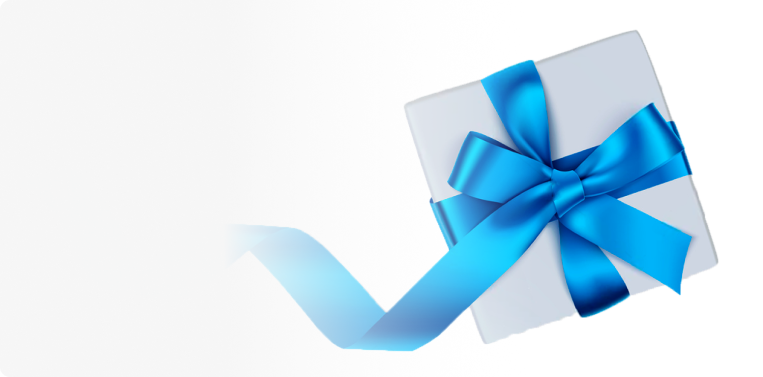
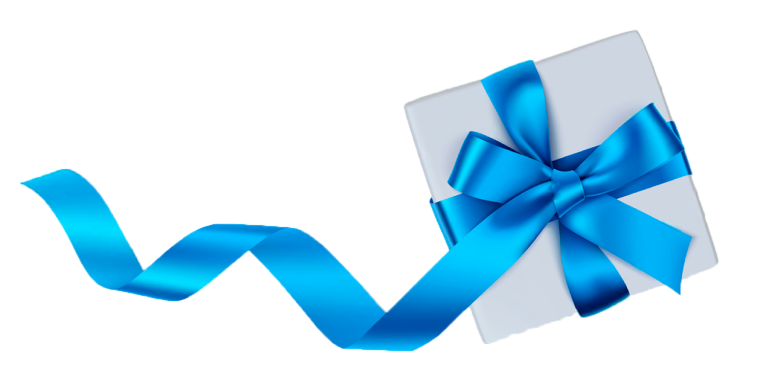
finished design of gift form (without adaptive)

Changed region(s): [[0.0301, 0.3501, 0.6632, 0.9337], [0.633, 0.1751, 0.6632, 0.321]]

diff --git a/src/assets/css/style.css b/src/assets/css/style.css
@@ -1,6 +1,7 @@
 body {
   font-family: 'Open sans', sans-serif, --apple-system;
-  overflow-x: hidden; }
+  overflow-x: hidden;
+  background-color: #F6F6F6; }
 
 .section__title {
   position: relative;
@@ -23,6 +24,17 @@ body {
 
 .text_accent {
   color: #A4DF59; }
+
+.text_underline {
+  position: relative; }
+  .text_underline:after {
+    position: absolute;
+    content: '';
+    width: 100%;
+    height: 2px;
+    left: 0;
+    bottom: -2px;
+    background-color: #A4DF59; }
 
 .line-break {
   display: block; }
@@ -228,6 +240,7 @@ body {
       position: absolute; }
 
 .prices {
+  margin-bottom: 80px;
   padding-bottom: 80px;
   position: relative; }
   .prices__title {
@@ -388,3 +401,58 @@ body {
         -webkit-border-radius: 1000px;
         -moz-border-radius: 1000px;
         border-radius: 1000px; }
+
+.gift {
+  padding-bottom: 80px; }
+  .gift__wrap {
+    position: relative; }
+  .gift__border {
+    position: absolute;
+    content: '';
+    height: 2px;
+    background-color: #A4DF59; }
+    .gift__border_top {
+      width: 150px;
+      top: -100px;
+      right: 0; }
+      .gift__border_top-right {
+        top: 0;
+        right: -99px;
+        width: 200px;
+        transform: rotate(90deg); }
+    .gift__border_bottom {
+      width: 150px;
+      bottom: -80px;
+      left: -51px; }
+      .gift__border_bottom-left {
+        bottom: 20px;
+        left: -150px;
+        width: 200px;
+        transform: rotate(-90deg); }
+  .gift__title {
+    margin-bottom: 35px;
+    font-size: 44px;
+    font-weight: 400; }
+    .gift__title .text_accent {
+      font-weight: 700; }
+  .gift__subtitle {
+    margin-bottom: 50px;
+    font-size: 16px; }
+  .gift__img-wrap {
+    position: absolute;
+    top: 50%;
+    right: 0;
+    transform: translateY(-50%);
+    z-index: -1; }
+    .gift__img-wrap:after {
+      position: absolute;
+      content: '';
+      top: 0;
+      left: 0;
+      right: 0;
+      bottom: 0;
+      background: #f6f6f6;
+      background: linear-gradient(90deg, #f6f6f6 20%, rgba(244, 123, 97, 0) 100%); }
+  .gift__form-input {
+    margin-right: 20px;
+    width: 190px; }

diff --git a/src/assets/sass/style.scss b/src/assets/sass/style.scss
@@ -3,6 +3,7 @@
 body {
   font-family: 'Open sans', sans-serif, --apple-system;
   overflow-x: hidden;
+  background-color: $main-bg-color;
 }
 
 .section {
@@ -30,51 +31,66 @@ body {
   height: 60px;
 }
 
-.text_accent {
-  color: $accent-color;
+.text {
+  &_accent {
+    color: $accent-color;
+  }
+  &_underline {
+    position: relative;
+    &:after {
+      position: absolute;
+      content: '';
+      width: 100%;
+      height: 2px;
+      left: 0;
+      bottom: -2px;
+      background-color: $accent-color;
+    }
+  }
 }
 
 .line-break {
-  display: block;
-}
+    display: block;
+  }
 
 .callback-button {
-  color: $alt-text-color;
-  background-color: $action-color;
-  -webkit-border-radius: 5px;
-  -moz-border-radius: 5px;
-  border-radius: 5px;
-}
-
-.form {
-  &__input {
-    &s {
-      display: flex;
-      align-items: center;
-    }
-    padding: 10px 25px;
-    font-size: 16px;
-    text-align: center;
-    background-color: $input-bg-color;
+    color: $alt-text-color;
+    background-color: $action-color;
     -webkit-border-radius: 5px;
     -moz-border-radius: 5px;
     border-radius: 5px;
-  }
-  &__button {
-    padding: 10px 20px;
-  }
-  &__footnote {
-    margin-top: 10px;
-    font-size: 12px;
-    color: $inactive-text-color;
-    &-link {
-      color: #f47b61;
-    }
-  }
 }
 
-@import "header";
-@import "promo";
-@import "features";
-@import "pricelist";
-@import "media";
+.form {
+    &__input {
+      &s {
+        display: flex;
+        align-items: center;
+      }
+      padding: 10px 25px;
+      font-size: 16px;
+      text-align: center;
+      background-color: $input-bg-color;
+      -webkit-border-radius: 5px;
+      -moz-border-radius: 5px;
+      border-radius: 5px;
+    }
+    &__button {
+      padding: 10px 20px;
+    }
+    &__footnote {
+      margin-top: 10px;
+      font-size: 12px;
+      color: $inactive-text-color;
+      &-link {
+        color: #f47b61;
+      }
+    }
+}
+
+  @import "header";
+  @import "promo";
+  @import "features";
+  @import "pricelist";
+  @import "gift-form";
+  @import "media";

diff --git a/src/assets/sass/_gift-form.scss b/src/assets/sass/_gift-form.scss
@@ -1,0 +1,71 @@
+.gift {
+  padding-bottom: 80px;
+  &__wrap {
+    position: relative;
+  }
+  &__border {
+    position: absolute;
+    content: '';
+    height: 2px;
+    background-color: $accent-color;
+    &_top {
+      width: 150px;
+      top: -100px;
+      right: 0;
+      &-right {
+        top: 0;
+        right: -99px;
+        width: 200px;
+        transform: rotate(90deg);
+      }
+    }
+    &_bottom {
+      width: 150px;
+      bottom: -80px;
+      left: -51px;
+      &-left {
+        bottom: 20px;
+        left: -150px;
+        width: 200px;
+        transform: rotate(-90deg);
+      }
+    }
+  }
+  &__title {
+    margin-bottom: 35px;
+    font-size: 44px;
+    font-weight: 400;
+    .text_accent {
+      font-weight: 700;
+    }
+  }
+  &__subtitle {
+    margin-bottom: 50px;
+    font-size: 16px;
+  }
+  &__img {
+    &-wrap {
+      position: absolute;
+      top: 50%;
+      right: 0;
+      transform: translateY(-50%);
+      z-index: -1;
+      &:after {
+        position: absolute;
+        content: '';
+        top: 0;
+        left: 0;
+        right: 0;
+        bottom: 0;
+        background: rgb(246,246,246);
+        background: linear-gradient(90deg, rgba(246,246,246,1) 20%, rgba(244,123,97,0) 100%);
+      }
+    }
+  }
+  &__form {
+    &-input {
+      margin-right: 20px;
+      width: 190px;
+    }
+  }
+}

diff --git a/src/assets/sass/_pricelist.scss b/src/assets/sass/_pricelist.scss
@@ -1,4 +1,5 @@
 .prices {
+  margin-bottom: 80px;
   padding-bottom: 80px;
   position: relative;
 

diff --git a/src/index.php b/src/index.php
@@ -344,17 +344,35 @@ require_once(__DIR__ . '/assets/configs/config.php');
 
 <section class="gift">
 	<div class="container gift__wrap">
-		<h2 class="gift__title"></h2>
-		<div class="gift__subtitle"></div>
-		<form action="" class="form gift__form">
-			<div class="form__inputs"><input type="text" class="form__input gift__form-input">
-				<button class="callback-button form__button gift__form-button"></button>
+		<div class="gift__border gift__border_top"></div>
+		<div class="gift__border gift__border_top-right"></div>
+		<div class="gift__border gift__border_bottom"></div>
+		<div class="gift__border gift__border_bottom-left"></div>
+
+		<h2 class="gift__title">
+			Дарим <span class="text_accent">скидку</span>
+			<span class="line-break"></span>
+			на <span class="text_underline">первый</span> ремонт
+		</h2>
+		<div class="gift__subtitle">
+			Оставьте свой номер телефона
+			<span class="line-break"></span>
+			и наш менеджер свяжется с вами через 2 минуты
+		</div>
+
+		<form action="#" method="POST" class="form gift__form">
+			<div class="form__inputs">
+				<input type="text" class="form__input gift__form-input" placeholder="+7 (999) 999-99-99">
+				<button class="callback-button form__button gift__form-button">Вызвать мастера</button>
 			</div>
 		</form>
-		<picture>
-			<source srcset="./assets/images/webp/gift.webp" type="image/webp">
-			<img src="./assets/images/gift.png" alt="подарок" class="gift__img">
-		</picture>
+
+		<div class="gift__img-wrap">
+			<picture>
+				<source srcset="./assets/images/webp/gift.webp" type="image/webp">
+				<img src="./assets/images/gift.png" alt="подарок" class="gift__img">
+			</picture>
+		</div>
 	</div>
 </section>
 </body>
